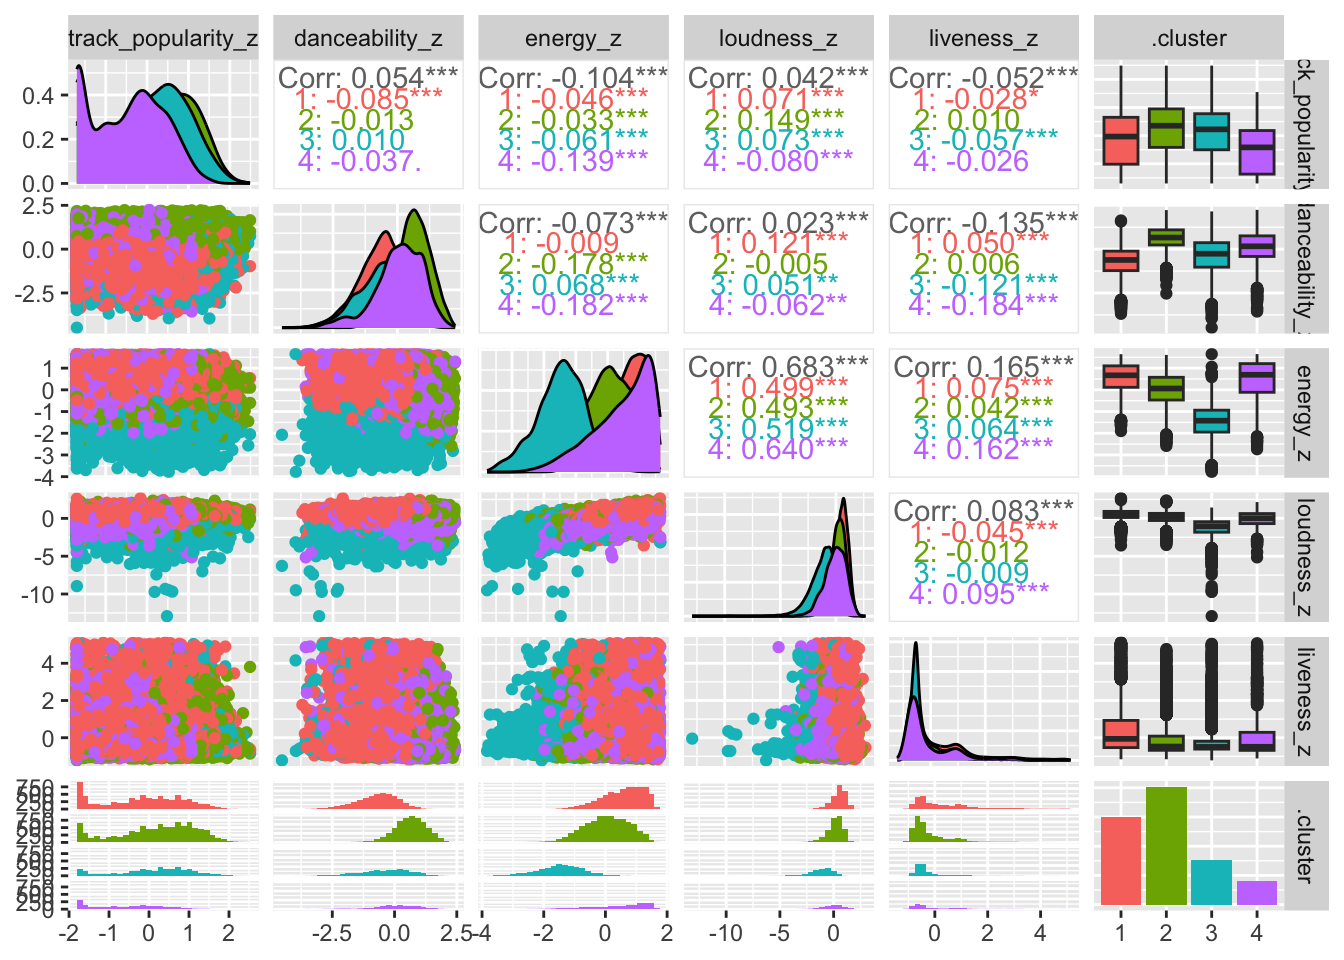
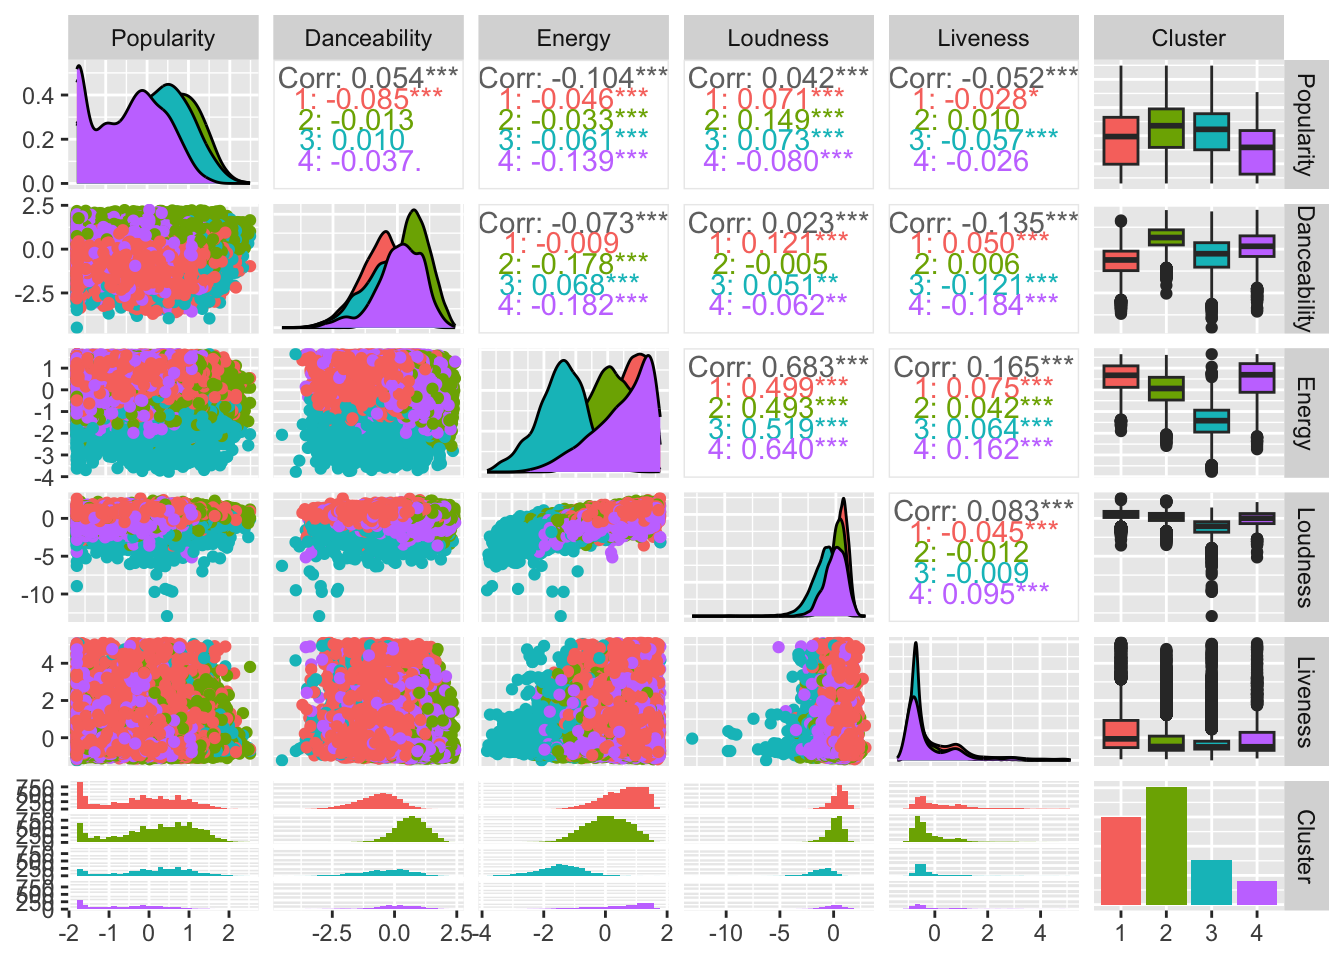
rename variables

diff --git a/docs/index.html b/docs/index.html
@@ -260,7 +260,7 @@ div.csl-indent {
 <div class="cell-output-display">
 <div>
 <figure class="figure">
-<p><img src="index_files/figure-html/k-means analysis energy plot-1.png" class="img-fluid figure-img" width="672"></p>
+<p><img src="index_files/figure-html/k-means analysis energy plot-1.png" class="img-fluid figure-img" style="width:100.0%"></p>
 </figure>
 </div>
 </div>
